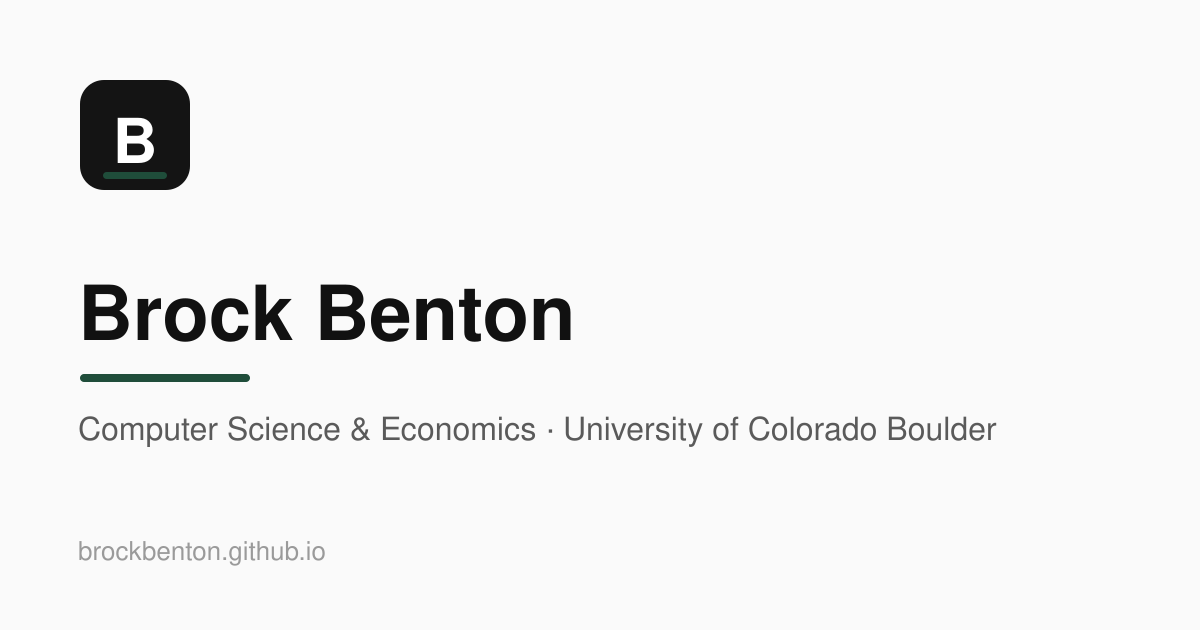
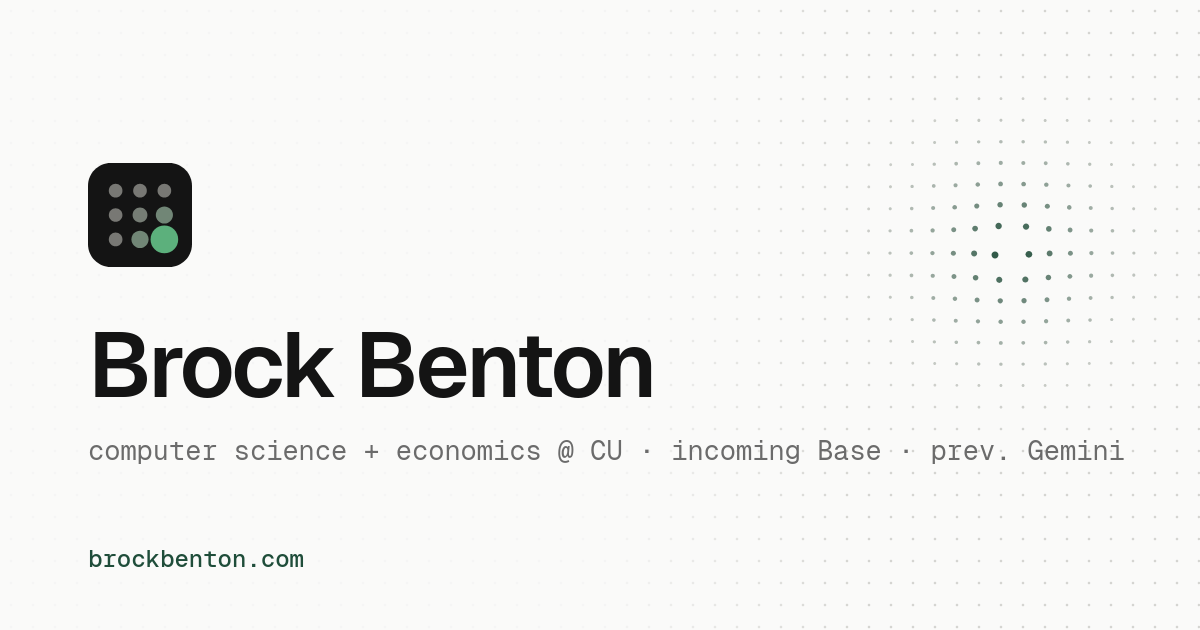
Refresh link preview image for the new design and domain
Replace the old "B" preview card with one matching the current site
(dotted icon, Geist type, brockbenton.com) and add og:url, og:site_name,
image dimensions, and a large Twitter card. The image URL is versioned so
apps that cached the old card fetch the new one.

diff --git a/_includes/head.html b/_includes/head.html
@@ -5,7 +5,13 @@
 <meta name="description" content="{{ page.description | default: site.description | strip_html | escape }}">
 <meta property="og:title" content="{{ t | escape }}">
 <meta property="og:description" content="{{ page.description | default: site.description | strip_html | escape }}">
-<meta property="og:image" content="{{ '/assets/img/og-image.png' | absolute_url }}">
+<meta property="og:type" content="website">
+<meta property="og:url" content="{{ page.url | absolute_url }}">
+<meta property="og:site_name" content="{{ site.title }}">
+<meta property="og:image" content="{{ '/assets/img/og-image.png' | absolute_url }}?v=2">
+<meta property="og:image:width" content="1200">
+<meta property="og:image:height" content="630">
+<meta name="twitter:card" content="summary_large_image">
 <link rel="canonical" href="{{ page.url | absolute_url }}">
 <link rel="icon" href="{{ '/assets/img/favicon.svg' | relative_url }}?v=2" type="image/svg+xml">
 <link rel="apple-touch-icon" href="{{ '/assets/img/apple-touch-icon.png' | relative_url }}">
